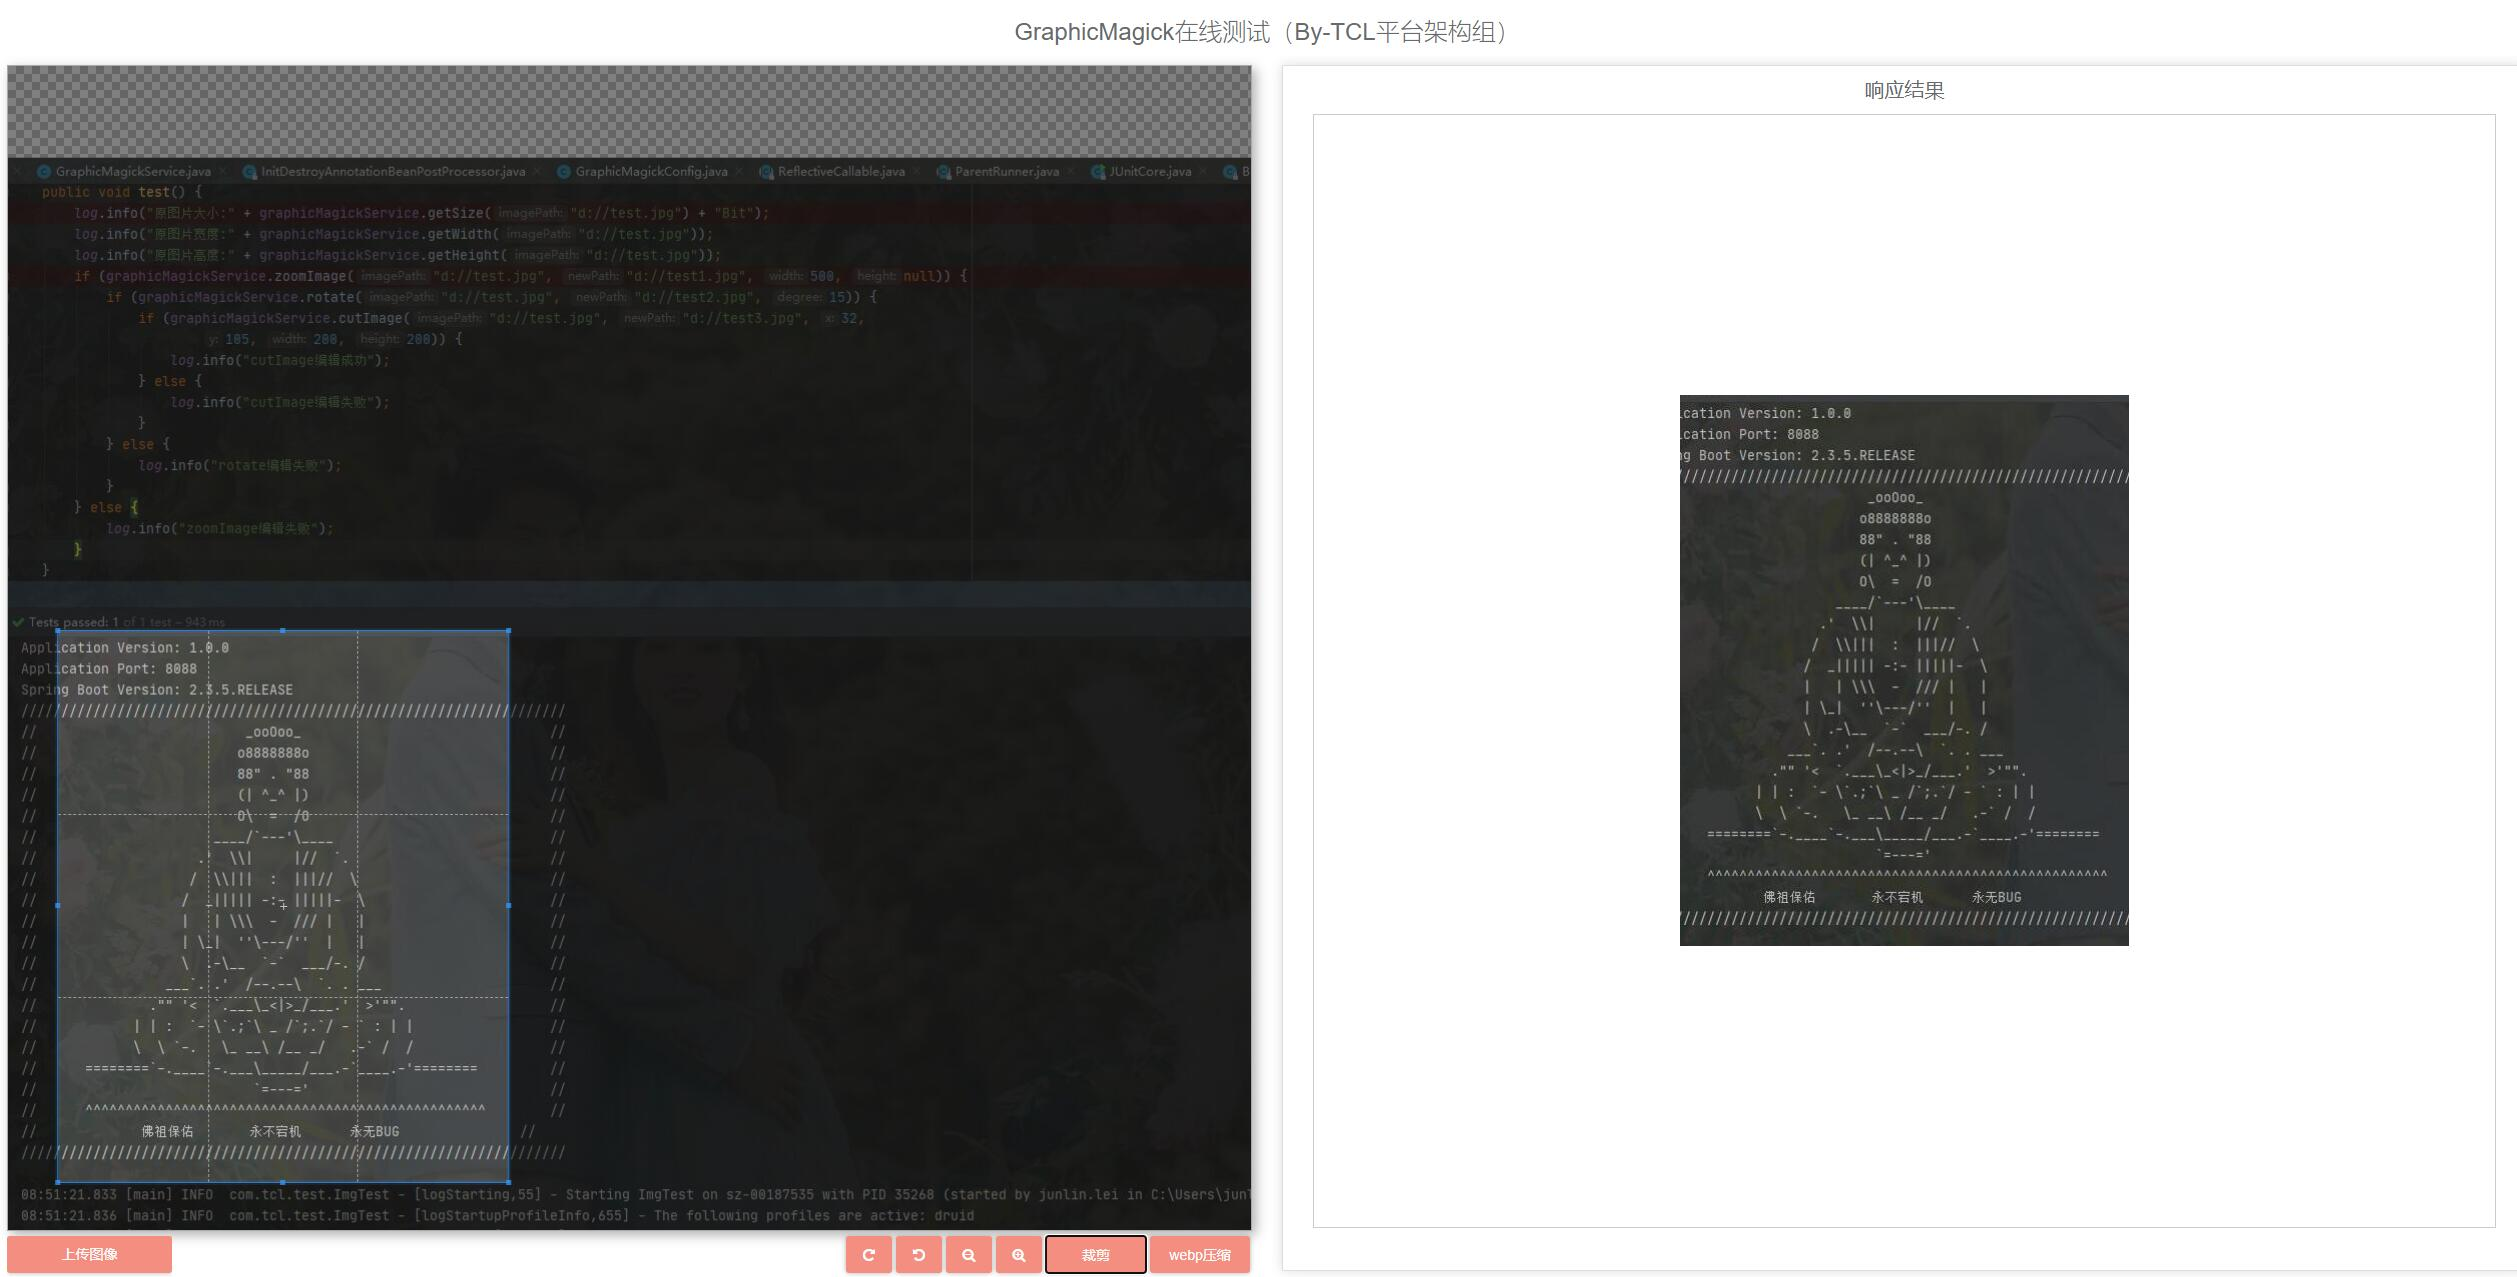
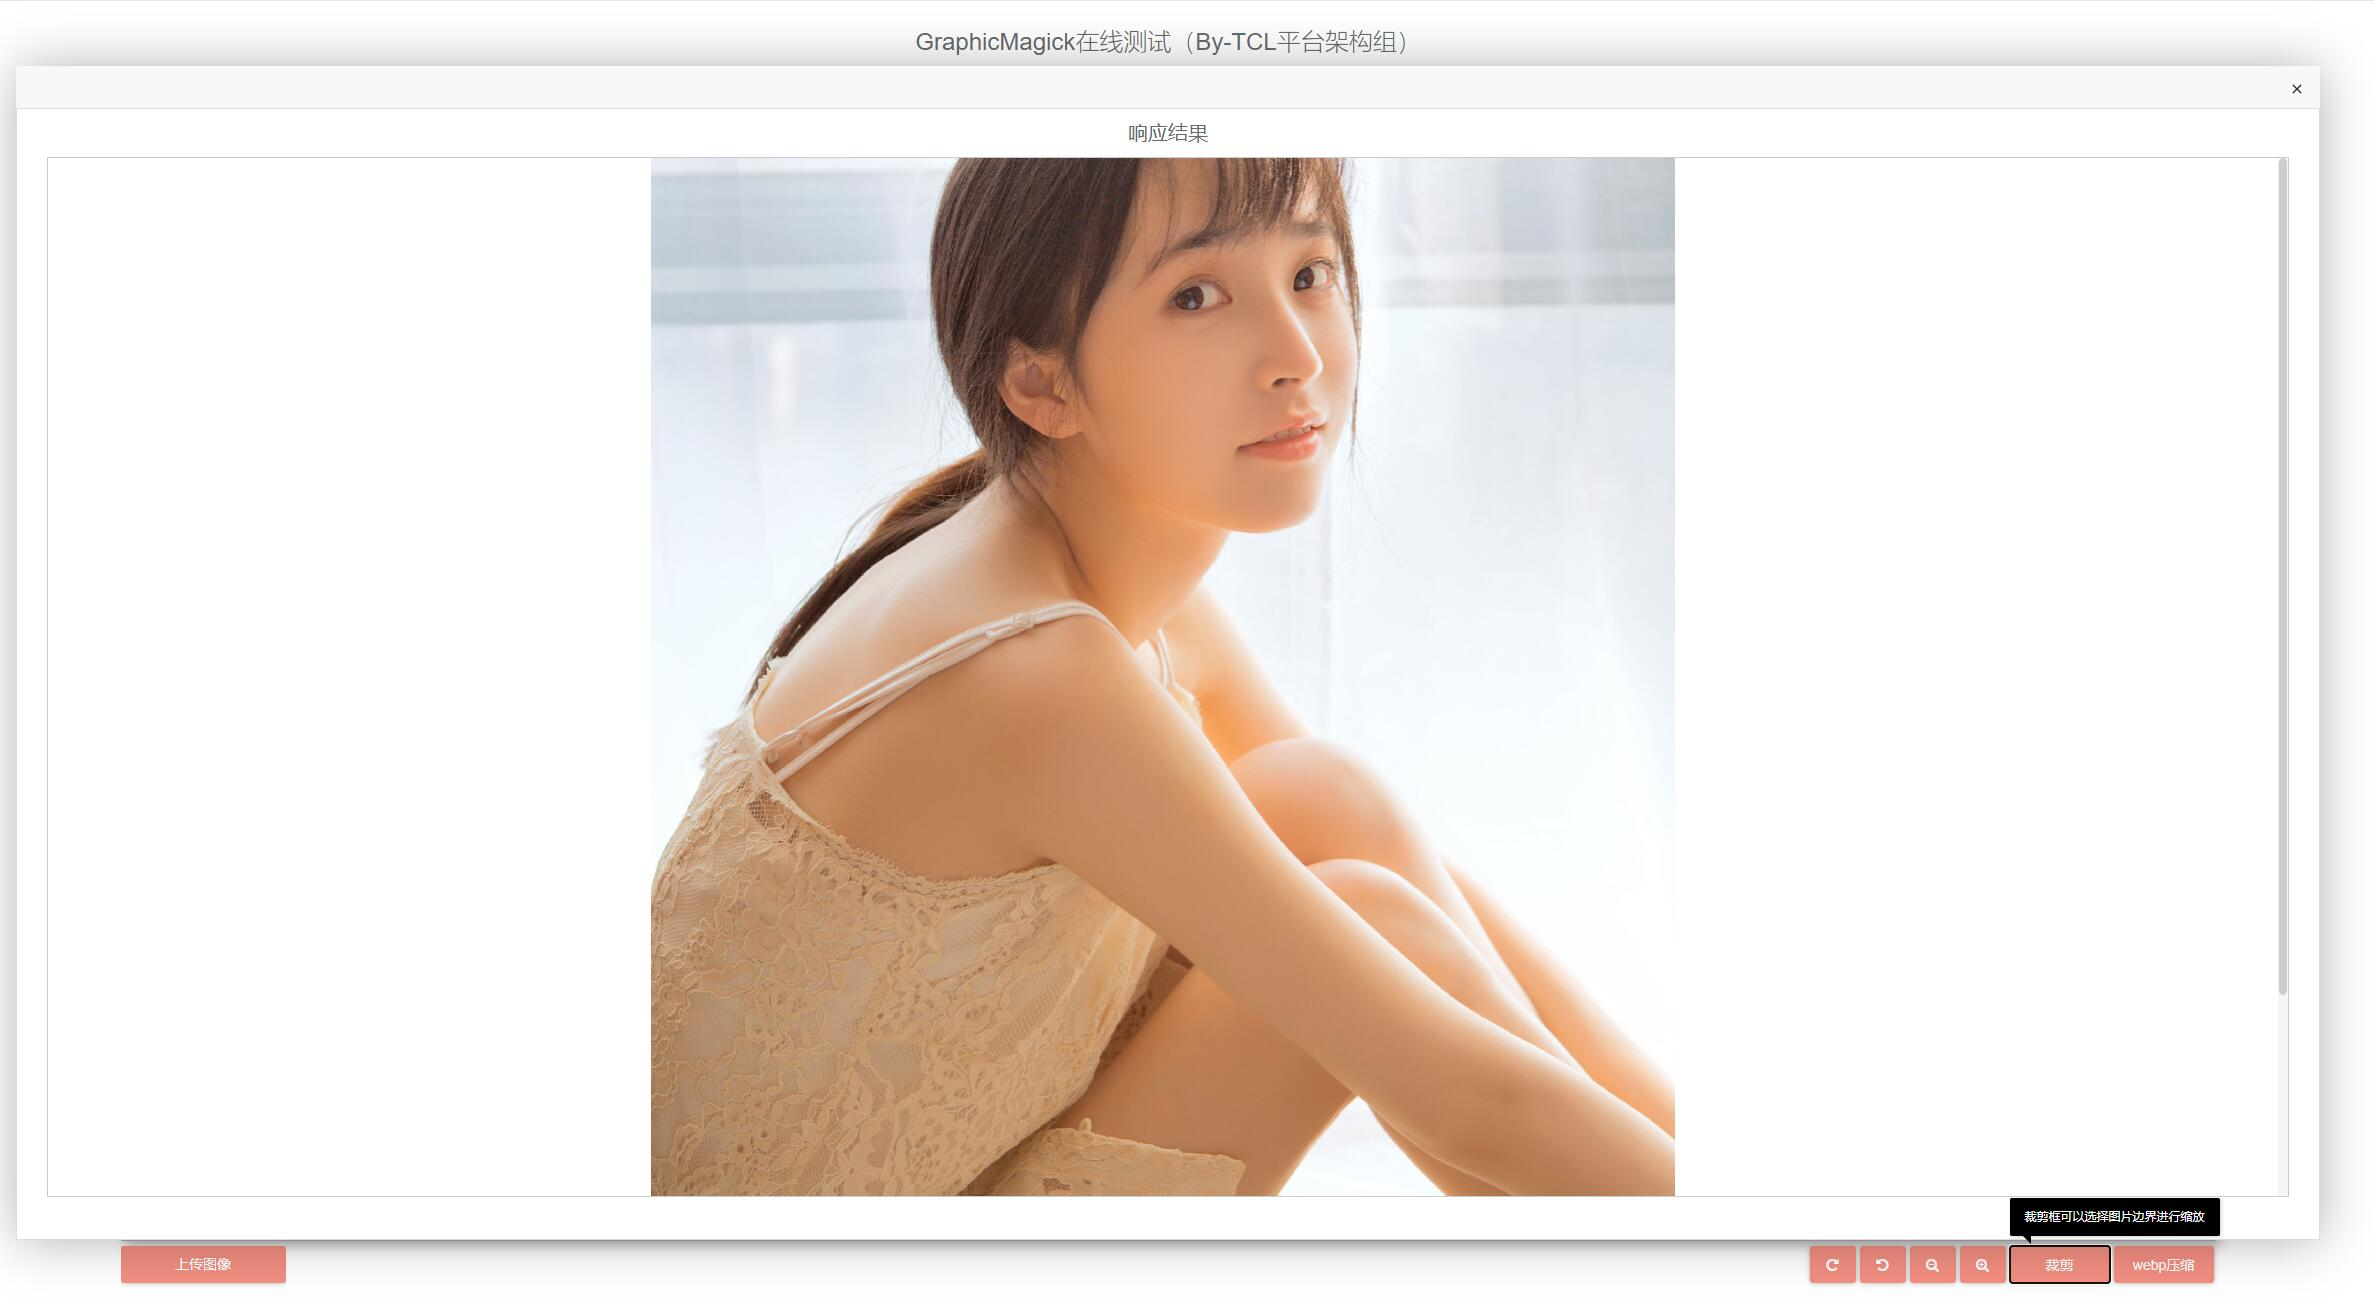
修复截图精度丢失bug，升级图片说明，方便大图展示更换排版

diff --git a/src/main/resources/templates/avatar.html b/src/main/resources/templates/avatar.html
@@ -11,6 +11,8 @@
             width: 100%;
             box-sizing: border-box;
             padding: 10px 5px 5px 5px;
+            justify-content: center;
+            align-items: center;
         }
 
         .action {
@@ -21,6 +23,7 @@
             padding: 0 30px;
             position: relative;
             width: 100%;
+            height: 100%;
             border: 1px #ddd solid;
             box-shadow: 0px 0px 12px #ddd;
         }
@@ -154,13 +157,16 @@
         .img-res-box{
 
         }
+        #ret-wrap{
+            height: 100%;
+        }
         /* avator css end */
     </style>
 </head>
 <body class="white-bg" style="align-items: center;flex-direction: column;display: flex;justify-content: center;">
 <h2>GraphicMagick在线测试（By-TCL平台架构组）</h2>
 <div class="row container">
-    <div class="col-md-6">
+    <div class="col-md-10">
         <div class="imageBox">
             <img id="avatar" th:src="(${#strings.isEmpty(user.avatar)}) ? @{/img/profile.jpg} : @{${user.avatar}}" th:onerror="'this.src=\'' + @{'/img/profile.jpg'} + '\''">
         </div>
@@ -169,8 +175,8 @@
                 <a href="javascript:void(0)" class="upload-img"><label for="inputImage">上传图像</label> </a>
                 <input type="file" name="avatar" id="inputImage" accept="image/*"/>
             </div>
-            <button style=" width: 100px; " type="button" class="btn-custom"  onclick="submitWebp()">webp压缩</button>
-            <button style=" width: 100px; " type="button" class="btn-custom"  onclick="submitCrop()">裁剪</button>
+            <button style=" width: 100px; " type="button" class="btn-custom" id="webp-wrap"  onclick="submitWebp()">webp压缩</button>
+            <button style=" width: 100px; " type="button" class="btn-custom" id="cutImg" onclick="submitCrop()">裁剪</button>
             <button type="button" class="btn-custom" id="zoom-plus" onclick="zoomPlus()" data-option="0.1"><i class="fa fa-search-plus"></i></button>
             <button type="button" class="btn-custom" id="zoom-minus" onclick="zoomMinus()" data-option="-0.1"><i class="fa fa-search-minus"></i></button>
             <button type="button" class="btn-custom" id="rotate-left" onclick="rotateLeft()" data-option="-45"><i class="fa fa-rotate-left"></i></button>
@@ -180,8 +186,8 @@
               <button type="button" class="btn-custom" id="reset"><i class="fa fa-refresh"></i></button>-->
         </div>
     </div>
-    <div class="col-md-6">
-        <div class="cropped">
+    <div class="" style="display: none" id="ret-wrap">
+        <div class="cropped" >
             <div class="res-ret">
                 响应结果
             </div>
@@ -203,6 +209,17 @@
 <th:block th:include="include :: footer" />
 <th:block th:include="include :: cropper-js" />
 <script type="text/javascript">
+    //layui 模块的使用
+    // layui.use(['layer', 'form'], function(){
+    //     var layer = layui.layer
+    //         ,form = layui.form;
+    layer.tips("裁剪框可以选择图片边界进行缩放",$("#cutImg"));
+    $("#cutImg").hover(function () {
+        layer.tips("裁剪框可以选择图片边界进行缩放",$("#cutImg"),{
+            tips: 1
+        });
+    })
+
     // "记录一下上传的文件名"
     var uploadFileName = '';
     // 记录一下裁剪的canvas坐标X
@@ -226,6 +243,7 @@
             // aspectRatio: 1,
             viewMode: 1,
             // autoCropArea: 0.9,
+            autoCropArea: 1,
             preview: '.img-preview',
             ready: function () {
                 croppable = true;
@@ -277,7 +295,8 @@
                             uploadFileName = data.data.fileName;
                             reader.onload = function(e) {
                                 if(croppable){
-                                    cropper.replace(e.target.result)
+                                    // cropper.replace(e.target.result)
+                                    cropper.replace(data.data.url);
                                 }
                             }
                             reader.readAsDataURL(document.getElementById('inputImage').files[0]);
@@ -313,7 +332,7 @@
 
     //获取图片原始大小的函数
     function getNaturalSize() {
-        var cropImgAvatar = $("#avatar");
+        var cropImgAvatar = $(".cropper-canvas").find("img");
         var natureSize = {};
         if (window.naturalWidth && window.naturalHeight) {
             natureSize.width = cropImgAvatar.naturalWidth;
@@ -333,13 +352,17 @@
 
     //获取图片显示大小函数
     function getShowSize() {
-        var cropImgAvatar = $(".cropper-canvas");
+        var cropImgAvatar = $(".cropper-canvas").find("img");
         var showSize = {};
         showSize.height = (cropImgAvatar.css("height") + "").replace("px", "");//去掉单位px
         showSize.width = (cropImgAvatar.css("width") + "").replace("px", "");
         return showSize;
     }
-
+    $("#webp-wrap").hover(function () {
+        layer.tips("裁剪框可以控制webp转换大小",$(this),{
+            tips: 1
+        });
+    })
     // webp压缩
     function submitWebp(){
         if(uploadFileName == ""){
@@ -371,12 +394,39 @@
 
         var cutNatureWidth = parseInt(width / widthProp);
         var cutNatureHeight = parseInt(height / heightProp);
-        var url = "/webp/?&width="+cutNatureWidth
+
+        // 裁剪框的宽度
+        var width = parseInt(canvasCropInfo.canvasCropWidth);
+        // 裁剪框的高度
+        var height =parseInt( canvasCropInfo.canvasCropHeight);
+        // 相对于裁剪图片x左边
+        var x = parseInt(canvasCropInfo.canvasCropX);
+        // 相对于裁剪图片y左边
+        var y = parseInt(canvasCropInfo.canvasCropY);
+
+       /* var url = "/webp/?&width="+cutNatureWidth
             // +"&mt="+"true"+"&nearLossless="+100
-            +"&height="+cutNatureHeight+"&sourceFileName="+uploadFileName;
+            +"&height="+cutNatureHeight+"&sourceFileName="+uploadFileName; */
+
+        var url = "/webp/?&width="+width
+            // +"&mt="+"true"+"&nearLossless="+100
+            +"&height="+height+"&sourceFileName="+uploadFileName;
         $("#img-res").css("width",width+"px");
         $("#img-res").css("height",height+"px");
         $("#img-res").attr("src",url);
+        layer.open({
+            title:" ",
+            area:['90%','90%'],
+            type: 1,
+            shade: false,
+            content: $('#ret-wrap'), //捕获的元素，注意：最好该指定的元素要存放在body最外层，否则可能被其它的相对元素所影响
+            success:function(){
+                layer.msg("请稍后，正在加载~")
+            },
+            end: function(){
+                $('#ret-wrap').css("display","none");
+            }
+        });
     }
 
     // 提交裁剪结果
@@ -417,11 +467,40 @@
         var natureY = parseInt(y / heightProp);
         var cutNatureWidth = parseInt(width / widthProp);
         var cutNatureHeight = parseInt(height / heightProp);
-        cutUrl = "/img/cutImage?x="+natureX+"&y="+natureY+"&width="+cutNatureWidth
+        /*cutUrl = "/img/cutImage?x="+natureX+"&y="+natureY+"&width="+cutNatureWidth
             +"&height="+cutNatureHeight+"&imageName="+uploadFileName;
+
+        $("#img-res").css("width",width+"px");
+        $("#img-res").css("height",height+"px");
+        $("#img-res").attr("src",cutUrl);*/
+
+        // 裁剪框的宽度
+        var width = parseInt(canvasCropInfo.canvasCropWidth);
+        // 裁剪框的高度
+        var height =parseInt( canvasCropInfo.canvasCropHeight);
+        // 相对于裁剪图片x左边
+        var x = parseInt(canvasCropInfo.canvasCropX);
+        // 相对于裁剪图片y左边
+        var y = parseInt(canvasCropInfo.canvasCropY);
+        cutUrl = "/img/cutImage?x="+x+"&y="+y+"&width="+width
+            +"&height="+height+"&imageName="+uploadFileName;
+
         $("#img-res").css("width",width+"px");
         $("#img-res").css("height",height+"px");
         $("#img-res").attr("src",cutUrl);
+        layer.open({
+            title:" ",
+            area:['90%','90%'],
+            type: 1,
+            shade: false,
+            content: $('#ret-wrap'), //捕获的元素，注意：最好该指定的元素要存放在body最外层，否则可能被其它的相对元素所影响
+            success:function(){
+                layer.msg("请稍后，正在加载~")
+            },
+            end: function(){
+                $('#ret-wrap').css("display","none");
+            }
+        });
         /*$.ajax({
            type: "GET",
            url: cutUrl,
@@ -447,7 +526,11 @@
     var zoomPlusNum = 50;
     var zoomTemp = 0;
 
-
+    $("#zoom-plus").hover(function () {
+        layer.tips("缩放（放大）",$(this),{
+            tips: 1
+        });
+    })
     // 放大
     function zoomPlus() {
         if(uploadFileName == ""){
@@ -455,9 +538,9 @@
             return;
         }
         if(zoomTemp == 0){
-            var showSizeTemp = getShowSize();
-            var virtualWidthTemp = parseFloat(showSizeTemp.width);
-            var virtualHeightTemp = parseFloat(showSizeTemp.height);
+            var showSizeTemp = getNaturalSize();
+            var virtualWidthTemp = parseInt(showSizeTemp.width);
+            var virtualHeightTemp = parseInt(showSizeTemp.height);
             zoomTemp = virtualWidthTemp;
         }
         zoomTemp = zoomTemp+zoomPlusNum;
@@ -466,9 +549,27 @@
         $("#img-res").css("width",zoomTemp+"px");
         $("#img-res").css("height",zoomTemp+"px");
         $("#img-res").attr("src",url);
+        layer.open({
+            title:" ",
+            area:['90%','90%'],
+            type: 1,
+            shade: false,
+            content: $('#ret-wrap'), //捕获的元素，注意：最好该指定的元素要存放在body最外层，否则可能被其它的相对元素所影响
+            success:function(){
+                layer.msg("请稍后，正在加载~")
+            },
+            end: function(){
+                $('#ret-wrap').css("display","none");
+            }
+        });
 
     }
 
+    $("#zoom-minus").hover(function () {
+        layer.tips("缩放（缩小）",$(this),{
+            tips: 1
+        });
+    })
     var zoomMinusNum = -50;
 
     // 缩小
@@ -478,9 +579,9 @@
             return;
         }
         if(zoomTemp == 0){
-            var showSizeTemp = getShowSize();
-            var virtualWidthTemp = parseFloat(showSizeTemp.width);
-            var virtualHeightTemp = parseFloat(showSizeTemp.height);
+            var showSizeTemp = getNaturalSize();
+            var virtualWidthTemp = parseInt(showSizeTemp.width);
+            var virtualHeightTemp = parseInt(showSizeTemp.height);
             zoomTemp = virtualWidthTemp;
         }
         zoomTemp = zoomTemp+zoomMinusNum;
@@ -493,9 +594,27 @@
         if(zoomTemp <= 0){
             zoomTemp = 0;
         }
+        layer.open({
+            title:" ",
+            area:['90%','90%'],
+            type: 1,
+            shade: false,
+            content: $('#ret-wrap'), //捕获的元素，注意：最好该指定的元素要存放在body最外层，否则可能被其它的相对元素所影响
+            success:function(){
+                layer.msg("请稍后，正在加载~")
+            },
+            end: function(){
+                $('#ret-wrap').css("display","none");
+            }
+        });
     }
     var degreeRotatTemp = 0;
     var degreeRotateLeft = -45;
+    $("#rotate-left").hover(function () {
+        layer.tips("左旋）",$(this),{
+            tips: 1
+        });
+    })
     // 左旋
     function rotateLeft() {
         if(uploadFileName == ""){
@@ -510,8 +629,25 @@
         $("#img-res").css("width",virtualWidth+"px");
         $("#img-res").css("height",virtualHeight+"px");
         $("#img-res").attr("src",url);
-
+        layer.open({
+            title:" ",
+            area:['90%','90%'],
+            type: 1,
+            shade: false,
+            content: $('#ret-wrap'), //捕获的元素，注意：最好该指定的元素要存放在body最外层，否则可能被其它的相对元素所影响
+            success:function(){
+                layer.msg("请稍后，正在加载~")
+            },
+            end: function(){
+                $('#ret-wrap').css("display","none");
+            }
+        });
     }
+    $("#rotate-right").hover(function () {
+        layer.tips("右旋）",$(this),{
+            tips: 1
+        });
+    })
     var degreeRotateRight = 45;
     // 右旋
     function rotateRight() {
@@ -527,7 +663,19 @@
         $("#img-res").css("width",virtualWidth+"px");
         $("#img-res").css("height",virtualHeight+"px");
         $("#img-res").attr("src",url);
-
+        layer.open({
+            title:" ",
+            area:['90%','90%'],
+            type: 1,
+            shade: false,
+            content: $('#ret-wrap'), //捕获的元素，注意：最好该指定的元素要存放在body最外层，否则可能被其它的相对元素所影响
+            success:function(){
+                layer.msg("请稍后，正在加载~")
+            },
+            end: function(){
+                $('#ret-wrap').css("display","none");
+            }
+        });
     }
 
     function submitHandler() {
@@ -553,7 +701,7 @@
 
     $(window).resize(function() {
         $('.imageBox').height($(window).height() - 140);
-        $('.cropped').height($(window).height() - 100);
+        // $('.cropped').height($(window).height() - 100);
     }).resize();
 
     if (!HTMLCanvasElement.prototype.toBlob) {
@@ -574,6 +722,8 @@
             }
         });
     }
+
+    // });
 </script>
 </body>
 </html>

diff --git a/src/main/java/com/tcl/cloud/graphics/service/GraphicMagickService.java b/src/main/java/com/tcl/cloud/graphics/service/GraphicMagickService.java
@@ -30,10 +30,10 @@ public class GraphicMagickService {
     @PostConstruct
     public void init() {
         convertCmd = new ConvertCmd(true);
-        convertCmd.setSearchPath(graphicMagickConfig.getGraphicMagickPath());
+        //convertCmd.setSearchPath(graphicMagickConfig.getGraphicMagickPath());
 
         identifyCmd = new IdentifyCmd(true);
-        identifyCmd.setSearchPath(graphicMagickConfig.getGraphicMagickPath());
+        //identifyCmd.setSearchPath(graphicMagickConfig.getGraphicMagickPath());
         log.info("init======");
     }
 
